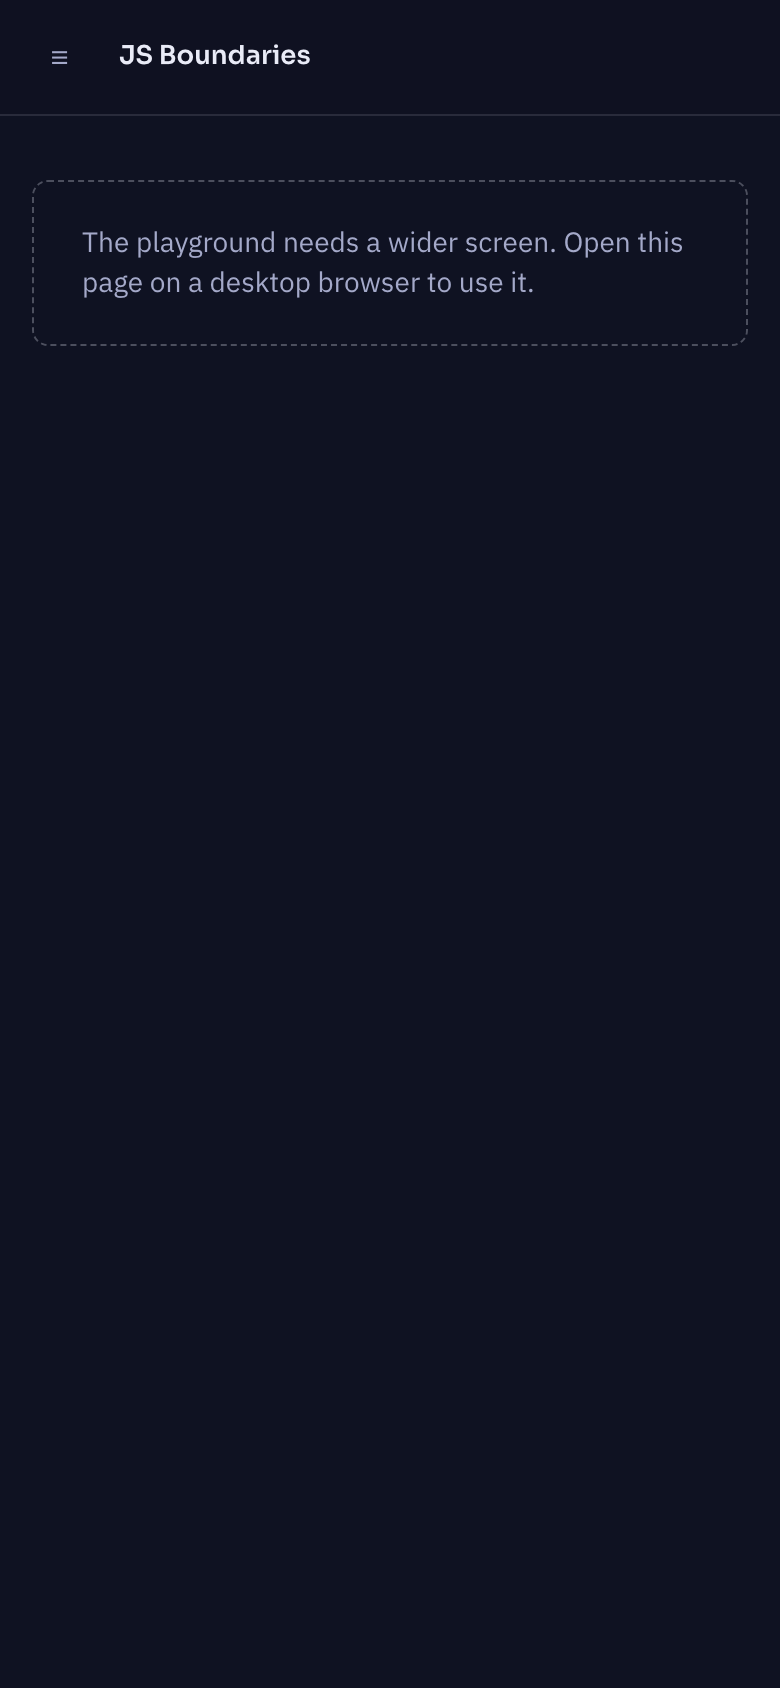
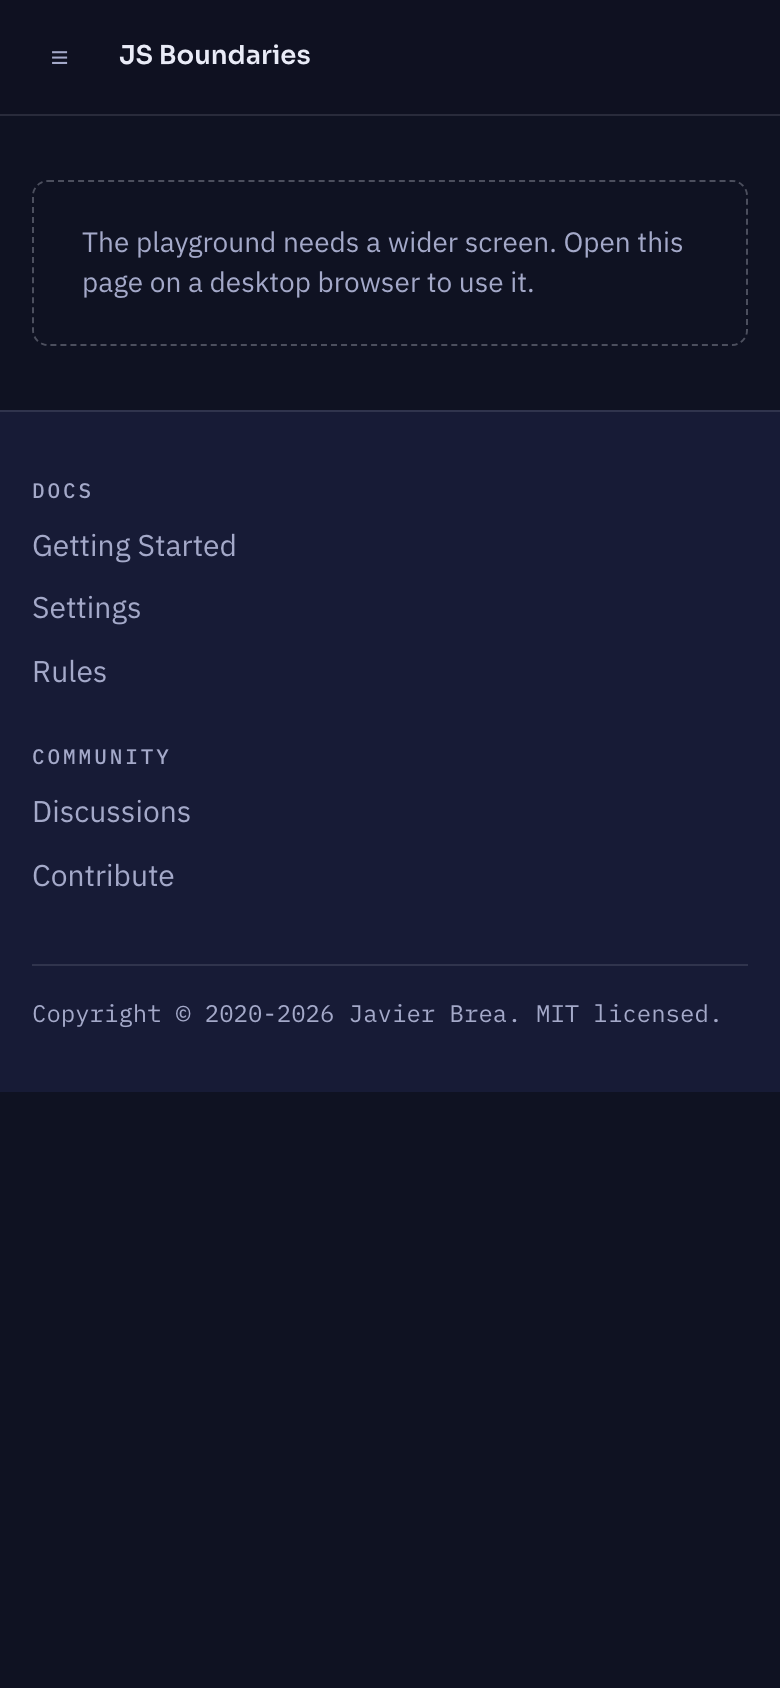
chore(playground): update the mockup with the review of the phase 5 page
The maintainer compared the page with the mockup on 2026-11-04 and kept the
page where it differs: the config problems in the order of the engine with
their detail, the lint tooltip above its range with a More info link that
never wraps, the rename and delete actions on the focused row, the footer
below the note on narrow screens, and 0 problems in --jsb-muted. Section 6
of 00-shared.md says the same.

diff --git a/.agents/plans/playground/mockups/playground.html b/.agents/plans/playground/mockups/playground.html
@@ -87,6 +87,35 @@
         color: var(--jsb-muted);
       }
 
+      .site-footer {
+        display: none;
+        flex-direction: column;
+        gap: 10px;
+        padding: 32px 16px;
+        border-top: 1px solid var(--jsb-line);
+        background: var(--jsb-card);
+        color: var(--jsb-muted);
+        font-size: 15px;
+      }
+
+      .site-footer b {
+        margin-top: 14px;
+        font: 500 10.5px var(--jsb-font-mono);
+        letter-spacing: 0.14em;
+        text-transform: uppercase;
+      }
+
+      .site-footer b:first-child {
+        margin-top: 0;
+      }
+
+      .site-footer small {
+        margin-top: 24px;
+        padding-top: 16px;
+        border-top: 1px solid var(--jsb-line);
+        font: 12px var(--jsb-font-mono);
+      }
+
       /* ---------- The playground root ---------- */
 
       .play {
@@ -393,6 +422,22 @@
       .tree li.is-selected {
         background: var(--jsb-accent-soft);
         box-shadow: inset 2px 0 0 var(--jsb-accent);
+      }
+
+      /* Rename and delete: on the row under the pointer, and on the selected row while it has the focus */
+      .tree li .actions {
+        display: inline-flex;
+        color: var(--jsb-muted);
+      }
+
+      .tree li .actions .icon-btn {
+        width: 26px;
+        height: 26px;
+      }
+
+      /* The help dialog opens over the file state and takes the focus from the row */
+      [data-state="help"] .tree li .actions {
+        display: none;
       }
 
       .tree li.is-bad .name {
@@ -703,9 +748,11 @@
         font-weight: 600;
       }
 
+      /* The link never wraps: it moves to its own line when it does not fit */
       .lint-tip a {
         color: var(--jsb-accent);
         text-decoration: none;
+        white-space: nowrap;
       }
 
       .empty {
@@ -1357,6 +1404,10 @@
         .note {
           display: block;
         }
+
+        .site-footer {
+          display: flex;
+        }
       }
 
       /* ---------- Mockup-only controls, hidden in the renders ---------- */
@@ -1441,6 +1492,7 @@
         <span class="status" data-show="file dependency picker text empty policy">
           <span class="dot"></span>6 files · 9 dependencies · <span class="bad">2 problems</span>
         </span>
+        <!-- With no problems, the count reads "0 problems" in --jsb-muted after the --jsb-ok dot (00-shared.md section 6) -->
         <span class="status" data-show="config">
           <span class="dot" style="background: var(--jsb-bad)"></span>6 files · 9 dependencies · <span class="bad">config has errors</span>
         </span>
@@ -1508,7 +1560,7 @@
             </li>
             <li style="--depth: 3" data-selected-in="file dependency picker" data-bad-in="file dependency picker empty policy">
               <span class="spacer-chev"></span><span class="name">index.js</span>
-              <span class="end" data-show="file dependency picker empty policy"><svg class="icon bad"><use href="#i-cross" /></svg><span class="count bad">1</span></span>
+              <span class="end" data-show="file dependency picker empty policy"><span class="actions" data-show="file"><button class="icon-btn" type="button" aria-label="Rename src/modules/checkout/index.js"><svg class="icon"><use href="#i-edit" /></svg></button><button class="icon-btn" type="button" aria-label="Delete src/modules/checkout/index.js"><svg class="icon"><use href="#i-trash" /></svg></button></span><svg class="icon bad"><use href="#i-cross" /></svg><span class="count bad">1</span></span>
             </li>
             <li style="--depth: 1"><span class="spacer-chev"></span><span class="name">index.js</span></li>
           </ul>
@@ -1624,7 +1676,8 @@ src/pages/<span class="caret"></span>
               <li class="line"><span class="gut"></span><span class="ln">31</span><span class="stmt">  },</span></li>
               <li class="line"><span class="gut"></span><span class="ln">32</span><span class="stmt">}</span></li>
             </ol>
-            <div class="lint-tip" style="top: 344px" data-show="config">
+            <!-- Above the range and from its start, where @codemirror/lint opens its hover tooltip -->
+            <div class="lint-tip" style="top: 240px; left: 167px" data-show="config">
               <b>[boundaries/dependencies] Invalid rule options.</b>
               Value "dissallow" should be equal to one of the allowed values.
               <a href="#">More info</a>
@@ -1770,17 +1823,18 @@ src/pages/<span class="caret"></span>
               <svg class="icon"><use href="#i-info" /></svg>
               Dependencies are not evaluated while the rule options are invalid: ESLint does not run a rule whose options fail its schema.
             </div>
+            <!-- In the order of the engine (normalizeConfig: settings before rules); a row reads the title and the detail, without its More info link -->
+            <div class="problem">
+              <svg class="icon warn"><use href="#i-warn" /></svg>
+              <span class="where">eslint.config.js<span class="line-no">:5:7</span></span>
+              <span class="msg">Some element descriptors are invalid and will be ignored. Invalid descriptors: [{"match":"folder","type":"component","patern":"components/*/*"}].</span>
+              <span class="meta">warning · settings › boundaries/elements › 1</span>
+            </div>
             <div class="problem">
               <svg class="icon bad"><use href="#i-cross" /></svg>
               <span class="where">eslint.config.js<span class="line-no">:15:16</span></span>
               <span class="msg">[boundaries/dependencies] Invalid rule options. Value "dissallow" should be equal to one of the allowed values.</span>
               <span class="meta">error · rules › boundaries/dependencies › 1 › default</span>
-            </div>
-            <div class="problem">
-              <svg class="icon warn"><use href="#i-warn" /></svg>
-              <span class="where">eslint.config.js<span class="line-no">:5:7</span></span>
-              <span class="msg">Some element descriptors are invalid and will be ignored.</span>
-              <span class="meta">warning · settings › boundaries/elements › 1</span>
             </div>
           </div>
 
@@ -1901,6 +1955,18 @@ src/pages/<span class="caret"></span>
         </footer>
       </div>
     </div>
+
+    <!-- The site footer, drawn short: the page hides it on wide screens only (section 6, "Page") -->
+    <footer class="site-footer">
+      <b>Docs</b>
+      <span>Getting Started</span>
+      <span>Settings</span>
+      <span>Rules</span>
+      <b>Community</b>
+      <span>Discussions</span>
+      <span>Contribute</span>
+      <small>Copyright © 2020-2026 Javier Brea. MIT licensed.</small>
+    </footer>
 
     <!-- Mockup-only: switches the state and the theme -->
     <div class="mockup-bar" aria-hidden="true">

diff --git a/.agents/plans/playground/00-shared.md b/.agents/plans/playground/00-shared.md
@@ -63,14 +63,14 @@ For `/playground/`, on the production build served locally (`pnpm --filter websi
 
 ## 6. Interface (phases 5 to 8)
 
-The approved mockup is the ground truth: `playground/mockups/playground.html`, rendered by `playground/mockups/render.mjs` into `playground/mockups/<state>-<theme>.png` (states `empty`, `file`, `dependency`, `picker`, `config`, `policy`, `text`, `help`; 1440×900 and the 390×844 note). The maintainer approved it on 2026-11-04. Exact sizes and paddings are in its CSS; this section holds what the components must follow. A deliberate difference between a phase and the mockup is a plan edit that updates the mockup and its renders.
+The approved mockup is the ground truth: `playground/mockups/playground.html`, rendered by `playground/mockups/render.mjs` into `playground/mockups/<state>-<theme>.png` (states `empty`, `file`, `dependency`, `picker`, `config`, `policy`, `text`, `help`; 1440×900 and the 390×844 note). The maintainer approved it on 2026-11-04, and the review of the phase 5 page updated it the same day. Exact sizes and paddings are in its CSS; this section holds what the components must follow. A deliberate difference between a phase and the mockup is a plan edit that updates the mockup and its renders.
 
 ### Page
 
 - The website page has no visible header: no eyebrow, title or lead. Its `h1` "Playground" stays for screen readers (visually hidden), the navbar's active `Playground` item is the visible title from phase 7 on (the entry does not exist before it), and the lead text stays as the `description` of `Layout`.
 - At 997 px and wider, the playground fills the page below the 58 px navbar (`--ifm-navbar-height`): full width, height `max(620px, 100vh - 58px)`, no border, radius, shadow or margin. The site footer is hidden at these widths only, by CSS scoped to the page (the `noFooter` prop of `Layout` would drop it on narrow screens too), so that the page does not scroll and only the panes do.
 - At 996 px and narrower, the page shows the desktop-only note (dashed box, `32px 16px` margin) and the footer; the chunk is not requested (phase 4).
-- Phase 5 changes `packages/website/src/pages/playground.tsx` and its CSS module to this layout.
+- `packages/website/src/pages/playground.tsx` and `playground.module.css` implement this layout (phase 5).
 
 ### Regions and sizes
 
@@ -99,23 +99,23 @@ The 15 icons of the mockup (check, cross, warn, skip, chevron right and down, pl
 ### Widgets
 
 - Buttons (MUI `Button`): 30 px tall (26 px small), radius `--jsb-radius`, 600 12.5 px. Outlined with `--jsb-line-strong`, contained in `--jsb-accent` with `--jsb-accent-ink`, text in `--jsb-muted`. Icon-only buttons (`IconButton`) are 30×30 with a `Tooltip`; pressed is `--jsb-accent-soft` with `--jsb-accent`.
-- Tree (`RichTreeView`): 26 px rows, 14 px indent per level, 12 px chevrons in `--jsb-faint`, folders in `--jsb-muted` with a trailing `/`. `eslint.config.js` is pinned first in `--jsb-accent` with a `{}` glyph and a separator below it. The end of a row holds the failing count and a ✕ on failing files; a file with failures has its name in `--jsb-bad`; rename edits the label in place.
+- Tree (`RichTreeView`): 26 px rows, 14 px indent per level, 12 px chevrons in `--jsb-faint`, folders in `--jsb-muted` with a trailing `/`. `eslint.config.js` is pinned first in `--jsb-accent` with a `{}` glyph and a separator below it. The end of a row holds the failing count and a ✕ on failing files; a file with failures has its name in `--jsb-bad`; rename and delete show at the end of the row under the pointer, and of the selected row while it has the focus; rename edits the label in place.
 - Tree / Text switch: `ToggleButtonGroup` with 22 px buttons, in the 44 px foot of the project pane next to `+ File` and `+ Folder`.
 - Tabs (`Tabs`): 2 px `--jsb-accent` indicator, selected `--jsb-ink`, others `--jsb-muted`; node and dependency tabs have mono 12 px labels; each tab shows its count.
 - Dialogs (`Dialog`): `--jsb-card`, 1 px `--jsb-line`, radius `--jsb-radius-xl`, 22 px padding, buttons right-aligned in the footer. The picker is 620 px wide: rows with a 92 px mono label column, `Radio`, an `Autocomplete` of 38 px with a floating label over the paths of the sketch, `Chip`s of 26 px for the imported names, the statement preview on `--jsb-code`. The help dialog is 540 px wide.
-- Not MUI: the dependency lines of the file pane (a component of the package), the editor and its lint tooltip (CodeMirror, styled as a card with a 3 px `--jsb-bad` or `--jsb-warn` left border), the splits (`react-resizable-panels`).
+- Not MUI: the dependency lines of the file pane (a component of the package), the editor and its lint tooltip (CodeMirror, styled as a card with a 3 px `--jsb-bad` or `--jsb-warn` left border, opened above its range, where `@codemirror/lint` places it, with a `More info` link that never wraps), the splits (`react-resizable-panels`).
 
 ### Panes
 
-- Top bar: the example picker (outlined, `Example <name> ▾`), the status in mono (`6 files · 9 dependencies · 2 problems` after a 6 px dot, `--jsb-ok` or `--jsb-bad`; `config has errors` while the rule options are invalid), then, right-aligned, Help (icon-only), Reset (text) and Share (contained). The playground has no title of its own. Phase 5 draws the status with what exists then; the dependencies count comes in phase 6; the example picker, Help, Reset and Share in phase 7.
+- Top bar: the example picker (outlined, `Example <name> ▾`), the status in mono (`6 files · 9 dependencies · 2 problems` after a 6 px dot, `--jsb-ok` or `--jsb-bad`; `0 problems` in `--jsb-muted` when there are none; `config has errors` while the rule options are invalid), then, right-aligned, Help (icon-only), Reset (text) and Share (contained). The playground has no title of its own. Phase 5 draws the files and the problems; phase 6 adds the dependencies count, and phase 7 the example picker, Help, Reset and Share.
 - Project: head `Project`; the tree; text mode is a textarea with one path per line, folders ending in `/`, dependencies indented two spaces under their file in `--jsb-muted`, an inset 1 px `--jsb-accent` ring, and the head hint `One path per line · dependencies indented`.
 - Node in focus, a file: head `File <path>`. One line per dependency in a grid of 44 px line number, statement, 64 px actions and 176 px verdict. The statement wraps and is never cut; edit and delete show on hover and focus; the verdict is right-aligned: `✓ policy N`, `✕ policy N` or `✕ default`, `– not checked · <reason>` with the engine's skip reasons (`external` for `not-local`, `internal`, `from-unknown`). Below, a dashed `+ Dependency` button and a hint.
-- Node in focus, the config: head `Config eslint.config.js` with the hint `JSON5 · the settings and rules of an ESLint config`. CodeMirror with an 18 px lint gutter (✕ error, ▲ warning) and line numbers; a diagnostic underlines with a wavy line the whole entry its path points at; the active line is 5% `--jsb-code-fg`.
+- Node in focus, the config: head `Config eslint.config.js` with the hint `JSON5 · the settings and rules of an ESLint config`. CodeMirror with an 18 px lint gutter (✕ error, ▲ warning) and line numbers; a diagnostic underlines with a wavy line the whole entry its path points at; the active line is 5% `--jsb-code-fg`; no ring is drawn around the focused editor, whose cursor and active line show the focus.
 - Nothing in focus: head `Nothing open`, a 16 px `--jsb-grid` grid background, `Open a file or the config`, a short text, and `Open eslint.config.js` and `+ File`.
 - Inspector, a file: the path, then three facets named and keyed as the engine returns them (`element`: `types`, `path`, `captured`; `file`: `categories`; `module`: `origin`), values as JSON with `null` in `--jsb-faint`, then `n dependencies ✓ k ✕ k – k not checked`.
 - Inspector, the config: `Element types`, `File categories` and `Policies` as rows (name, how many files or dependencies, pattern below). An ignored descriptor reads `ignored` in `--jsb-warn`; with invalid rule options, the rule reads `not evaluated`.
 - Inspector, nothing in focus: `Sketch` with a 2×3 grid of numbers (files, dependencies, element types, file categories, policies, disallowed) and the allowed and not-checked counts.
-- Problems: head `Problems`, the tabs and a collapse button. A row is an icon, the location in mono (`path:line` or `path:line:col`, then `→ source` for a dependency), the message in the body font and a meta line (`disallowed · policy N` or `disallowed · default`; `error` or `warning` and the diagnostic path joined by ` › `). Rows highlight on hover and open what they point at on click. A note is a dashed box with the info icon; with invalid rule options it reads "Dependencies are not evaluated while the rule options are invalid: ESLint does not run a rule whose options fail its schema."
+- Problems: head `Problems`, the tabs and a collapse button. A row is an icon, the location in mono (`path:line` or `path:line:col`, then `→ source` for a dependency), the message in the body font and a meta line (`disallowed · policy N` or `disallowed · default`; `error` or `warning` and the diagnostic path joined by ` › `). A config problem reads its title and its detail, without the `More info` link, and the config problems come in the order of the engine (`normalizeConfig`: settings before rules). Rows highlight on hover and open what they point at on click. A note is a dashed box with the info icon; with invalid rule options it reads "Dependencies are not evaluated while the rule options are invalid: ESLint does not run a rule whose options fail its schema."
 - The dependency tab: the verdict, the message, the facts (`to`, `element`, `file`, `kind`, `syntax`) and `Open policy in config →`, next to a policy card of at most 420 px with the policy as written in the config.
 - Help (phase 7): title `How the playground works`, one sentence on what the playground does, three numbered steps (sketch the files, write the config, add dependencies), a tip that the sketch starts with the Quick start example and what Reset and Share do, and `Read the Quick start →` with `Got it`. It never opens by itself. The host passes the Quick start URL through `PlaygroundProps`; without it, the link is not drawn (the harness).
 
